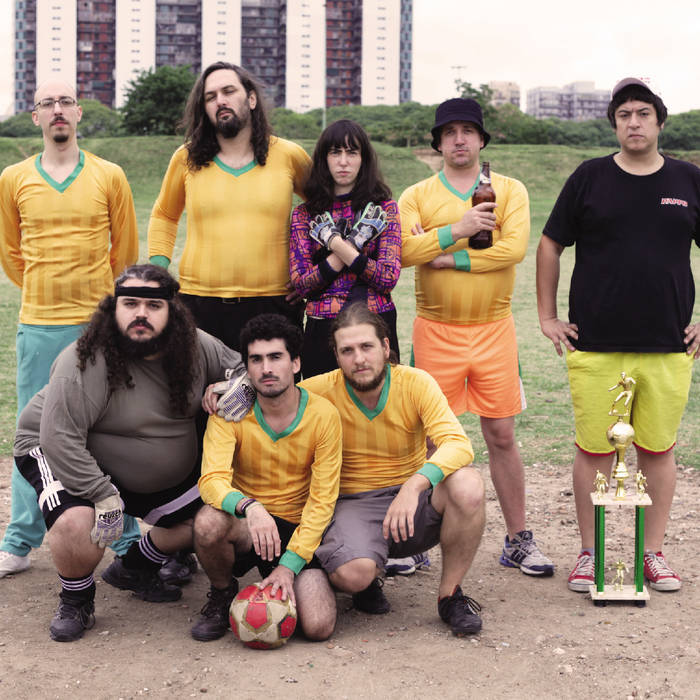
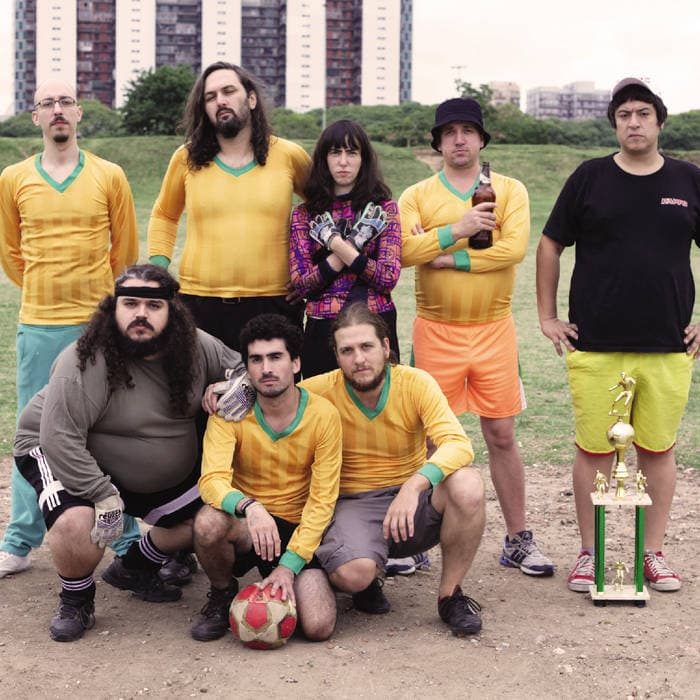
img optimizadas

diff --git a/index.html b/index.html
@@ -6,7 +6,7 @@
     <meta name="viewport" content="width=device-width, initial-scale=1.0">
     <meta name="description" content="Desde el barrio de Boedo llegó Bestia Bebé. Haciendo canciones que hablan sobre la amistad, el barrio, el fútbol, los autos y el amor.">
     <meta name="keywords" content="bestia bebé, rock indie, discografia, biografia, ultimo lanzamiento, merchandising, merch, shows, conciertos">
-    <link rel="favicon" href="./img/favicon.png" type="image/x-icon">
+    <link rel="shortcut icon" href="./img/favicon.png" type="image/x-icon">
     <link href="https://unpkg.com/aos@2.3.1/dist/aos.css" rel="stylesheet">
     <link rel="stylesheet" href="https://cdn.jsdelivr.net/npm/bootstrap@5.3.0-alpha1/dist/css/bootstrap.min.css">
     <link rel="stylesheet" href="./styles/style.css">
@@ -70,31 +70,31 @@
             </div>
             <div class="carousel-inner">
                 <div class="carousel-item active">
-                    <a href="https://www.feria.laptra.com.ar/bestia-bebe/tote-bags/bestia-bebe-tote-bag" target="_blank"><img src="./img/bag-bestia.png" class="d-block w-100" alt="bagBestia"></a>
+                    <a href="https://www.feria.laptra.com.ar/bestia-bebe/tote-bags/bestia-bebe-tote-bag" target="_blank"><img src="./img/bag-bestia.jpg" class="d-block w-100" alt="bagBestia"></a>
                     <div class="carousel-caption d-md-block">
                         <a href="https://www.feria.laptra.com.ar/bestia-bebe/tote-bags/bestia-bebe-tote-bag" target="_blank"><h5 class="font-contraste1">Tote Bag "Bestia Bebe"</h5></a>
                     </div>
                 </div>
                 <div class="carousel-item">
-                    <a href="https://www.feria.laptra.com.ar/bestia-bebe/casetes/bestia-bebe-gracias-por-nada-casete" target="_blank"><img src="./img/casette-bestia.png" class="d-block w-100" alt="casetteBestia"></a>
+                    <a href="https://www.feria.laptra.com.ar/bestia-bebe/casetes/bestia-bebe-gracias-por-nada-casete" target="_blank"><img src="./img/casette-bestia.jpg" class="d-block w-100" alt="casetteBestia"></a>
                     <div class="carousel-caption d-md-block">
                         <a href="https://www.feria.laptra.com.ar/bestia-bebe/casetes/bestia-bebe-gracias-por-nada-casete" target="_blank"><h5 class="font-contraste2">Casette "Gracias por Nada" </h5></a>
                     </div>
                 </div>
                 <div class="carousel-item">
-                    <a href="https://www.feria.laptra.com.ar/bestia-bebe/pins/bestia-bebe-pin" target="_blank"><img src="./img/pin-bestia.png" class="d-block w-100" alt="pinBestia"></a>
+                    <a href="https://www.feria.laptra.com.ar/bestia-bebe/pins/bestia-bebe-pin" target="_blank"><img src="./img/pin-bestia.jpg" class="d-block w-100" alt="pinBestia"></a>
                     <div class="carousel-caption d-md-block">
                         <a href="https://www.feria.laptra.com.ar/bestia-bebe/pins/bestia-bebe-pin" target="_blank"><h5>Pin "Bestia Bebe"</h5></a>
                     </div>
                 </div>
                 <div class="carousel-item">
-                    <a href="https://www.feria.laptra.com.ar/bestia-bebe/vinilos/importados/bestia-bebe-gracias-por-nada-vinilo-edicion-especialespana" target="_blank"><img src="./img/vinilo-bestia.png" class="d-block w-100" alt="viniloBestia"></a>
+                    <a href="https://www.feria.laptra.com.ar/bestia-bebe/vinilos/importados/bestia-bebe-gracias-por-nada-vinilo-edicion-especialespana" target="_blank"><img src="./img/vinilo-bestia.jpg" class="d-block w-100" alt="viniloBestia"></a>
                     <div class="carousel-caption d-md-block">
                         <a href="https://www.feria.laptra.com.ar/bestia-bebe/vinilos/importados/bestia-bebe-gracias-por-nada-vinilo-edicion-especialespana" target="_blank"><h5>Vinilo "Gracias por Nada" </h5></a>
                     </div>
                 </div>
                 <div class="carousel-item">
-                    <a href="https://www.feria.laptra.com.ar/bestia-bebe/remeras/bestia-bebe-remera-negro" target="_blank"><img src="./img/tshirt-bestia.png" class="d-block w-100" alt="remeraBestia"></a>
+                    <a href="https://www.feria.laptra.com.ar/bestia-bebe/remeras/bestia-bebe-remera-negro" target="_blank"><img src="./img/tshirt-bestia.jpg" class="d-block w-100" alt="remeraBestia"></a>
                     <div class="carousel-caption d-md-block">
                         <a href="https://www.feria.laptra.com.ar/bestia-bebe/remeras/bestia-bebe-remera-negro" target="_blank"><h5 class="font-contraste2">Remera Negra "Bestia Bebe" </h5></a>
                     </div>
@@ -115,13 +115,13 @@
                 <div class="carousel-item active">
                     <div class="card-wrapper container-sm d-flex  justify-content-around">
                         <div class="card" data-bs-theme="dark">
-                            <a href="https://www.feria.laptra.com.ar/bestia-bebe/casetes/bestia-bebe-gracias-por-nada-casete" target="_blank"><img src="./img/casette-bestia.png" class="card-img-top" alt="casetteBestia"></a>
+                            <a href="https://www.feria.laptra.com.ar/bestia-bebe/casetes/bestia-bebe-gracias-por-nada-casete" target="_blank"><img src="./img/casette-bestia.jpg" class="card-img-top" alt="casetteBestia"></a>
                                 <div class="card-body">
                                     <a href="https://www.feria.laptra.com.ar/bestia-bebe/casetes/bestia-bebe-gracias-por-nada-casete" target="_blank"><h5 class="card-title">Casette "Gracias por Nada" </h5></a>
                                 </div>
                         </div>
                         <div class="card" data-bs-theme="dark">
-                            <a href="https://www.feria.laptra.com.ar/bestia-bebe/vinilos/importados/bestia-bebe-gracias-por-nada-vinilo-edicion-especialespana" target="_blank"><img src="./img/vinilo-bestia.png" class="card-img-top" alt="viniloBestia"></a>
+                            <a href="https://www.feria.laptra.com.ar/bestia-bebe/vinilos/importados/bestia-bebe-gracias-por-nada-vinilo-edicion-especialespana" target="_blank"><img src="./img/vinilo-bestia.jpg" class="card-img-top" alt="viniloBestia"></a>
                                 <div class="card-body">
                                     <a href="https://www.feria.laptra.com.ar/bestia-bebe/vinilos/importados/bestia-bebe-gracias-por-nada-vinilo-edicion-especialespana" target="_blank"><h5 class="card-title">Vinilo "Gracias por Nada" </h5></a>
                                 </div>
@@ -131,13 +131,13 @@
                 <div class="carousel-item">
                     <div class="card-wrapper container-sm d-flex   justify-content-around">
                         <div class="card" data-bs-theme="dark">
-                            <a href="https://www.feria.laptra.com.ar/bestia-bebe/tote-bags/bestia-bebe-tote-bag" target="_blank"><img src="./img/bag-bestia.png" class="card-img-top" alt="bagBestia"></a>
+                            <a href="https://www.feria.laptra.com.ar/bestia-bebe/tote-bags/bestia-bebe-tote-bag" target="_blank"><img src="./img/bag-bestia.jpg" class="card-img-top" alt="bagBestia"></a>
                                 <div class="card-body">
                                     <a href="https://www.feria.laptra.com.ar/bestia-bebe/tote-bags/bestia-bebe-tote-bag" target="_blank"><h5 class="card-title">Tote Bag "Bestia Bebe" </h5></a>
                                 </div>
                         </div>
                         <div class="card" data-bs-theme="dark">
-                            <a href="https://www.feria.laptra.com.ar/bestia-bebe/pins/bestia-bebe-pin" target="_blank"><img src="./img/pin-bestia.png" class="card-img-top" alt="pinBestia"></a>
+                            <a href="https://www.feria.laptra.com.ar/bestia-bebe/pins/bestia-bebe-pin" target="_blank"><img src="./img/pin-bestia.jpg" class="card-img-top" alt="pinBestia"></a>
                                 <div class="card-body">
                                     <a href="https://www.feria.laptra.com.ar/bestia-bebe/pins/bestia-bebe-pin" target="_blank"><h5 class="card-title">Pin "Bestia Bebe"</h5></a>
                                 </div>
@@ -147,7 +147,7 @@
                 <div class="carousel-item">
                     <div class="card-wrapper container-sm d-flex   justify-content-around">
                         <div class="card" data-bs-theme="dark">
-                            <a href="https://www.feria.laptra.com.ar/bestia-bebe/remeras/bestia-bebe-remera-negro" target="_blank"><img src="./img/tshirt-bestia.png" class="card-img-top" alt="remeraBestia"></a>
+                            <a href="https://www.feria.laptra.com.ar/bestia-bebe/remeras/bestia-bebe-remera-negro" target="_blank"><img src="./img/tshirt-bestia.jpg" class="card-img-top" alt="remeraBestia"></a>
                                 <div class="card-body">
                                     <a href="https://www.feria.laptra.com.ar/bestia-bebe/remeras/bestia-bebe-remera-negro" target="_blank"><h5 class="card-title">Remera Negra "Bestia Bebe" </h5></a>
                                 </div>
@@ -170,19 +170,19 @@
                 <div class="carousel-item active">
                     <div class="card-wrapper container-sm d-flex  justify-content-around">
                         <div class="card" data-bs-theme="dark">
-                            <a href="https://www.feria.laptra.com.ar/bestia-bebe/casetes/bestia-bebe-gracias-por-nada-casete" target="_blank"><img src="./img/casette-bestia.png" class="card-img-top" alt="casetteBestia"></a>
+                            <a href="https://www.feria.laptra.com.ar/bestia-bebe/casetes/bestia-bebe-gracias-por-nada-casete" target="_blank"><img src="./img/casette-bestia.jpg" class="card-img-top" alt="casetteBestia"></a>
                                 <div class="card-body">
                                     <a href="https://www.feria.laptra.com.ar/bestia-bebe/casetes/bestia-bebe-gracias-por-nada-casete" target="_blank"><h5 class="card-title">Casette "Gracias por Nada" </h5></a>
                                 </div>
                         </div>
                         <div class="card" data-bs-theme="dark">
-                            <a href="https://www.feria.laptra.com.ar/bestia-bebe/vinilos/importados/bestia-bebe-gracias-por-nada-vinilo-edicion-especialespana" target="_blank"><img src="./img/vinilo-bestia.png" class="card-img-top" alt="viniloBestia"></a>
+                            <a href="https://www.feria.laptra.com.ar/bestia-bebe/vinilos/importados/bestia-bebe-gracias-por-nada-vinilo-edicion-especialespana" target="_blank"><img src="./img/vinilo-bestia.jpg" class="card-img-top" alt="viniloBestia"></a>
                                 <div class="card-body">
                                     <a href="https://www.feria.laptra.com.ar/bestia-bebe/vinilos/importados/bestia-bebe-gracias-por-nada-vinilo-edicion-especialespana" target="_blank"><h5 class="card-title">Vinilo "Gracias por Nada" </h5></a>
                                 </div>
                         </div>
                         <div class="card" data-bs-theme="dark">
-                            <a href="https://www.feria.laptra.com.ar/bestia-bebe/remeras/bestia-bebe-remera-negro" target="_blank"><img src="./img/tshirt-bestia.png" class="card-img-top" alt="remeraBestia"></a>
+                            <a href="https://www.feria.laptra.com.ar/bestia-bebe/remeras/bestia-bebe-remera-negro" target="_blank"><img src="./img/tshirt-bestia.jpg" class="card-img-top" alt="remeraBestia"></a>
                                 <div class="card-body">
                                     <a href="https://www.feria.laptra.com.ar/bestia-bebe/remeras/bestia-bebe-remera-negro" target="_blank"><h5 class="card-title">Remera Negra "Bestia Bebe" </h5></a>
                                 </div>
@@ -192,13 +192,13 @@
                 <div class="carousel-item">
                     <div class="card-wrapper container-sm d-flex   justify-content-around">
                         <div class="card" data-bs-theme="dark">
-                            <a href="https://www.feria.laptra.com.ar/bestia-bebe/tote-bags/bestia-bebe-tote-bag" target="_blank"><img src="./img/bag-bestia.png" class="card-img-top" alt="bagBestia"></a>
+                            <a href="https://www.feria.laptra.com.ar/bestia-bebe/tote-bags/bestia-bebe-tote-bag" target="_blank"><img src="./img/bag-bestia.jpg" class="card-img-top" alt="bagBestia"></a>
                                 <div class="card-body">
                                     <a href="https://www.feria.laptra.com.ar/bestia-bebe/tote-bags/bestia-bebe-tote-bag" target="_blank"><h5 class="card-title">Tote Bag "Bestia Bebe" </h5></a>
                                 </div>
                         </div>
                         <div class="card" data-bs-theme="dark">
-                            <a href="https://www.feria.laptra.com.ar/bestia-bebe/pins/bestia-bebe-pin" target="_blank"><img src="./img/pin-bestia.png" class="card-img-top" alt="pinBestia"></a>
+                            <a href="https://www.feria.laptra.com.ar/bestia-bebe/pins/bestia-bebe-pin" target="_blank"><img src="./img/pin-bestia.jpg" class="card-img-top" alt="pinBestia"></a>
                                 <div class="card-body">
                                     <a href="https://www.feria.laptra.com.ar/bestia-bebe/pins/bestia-bebe-pin" target="_blank"><h5 class="card-title">Pin "Bestia Bebe"</h5></a>
                                 </div>
